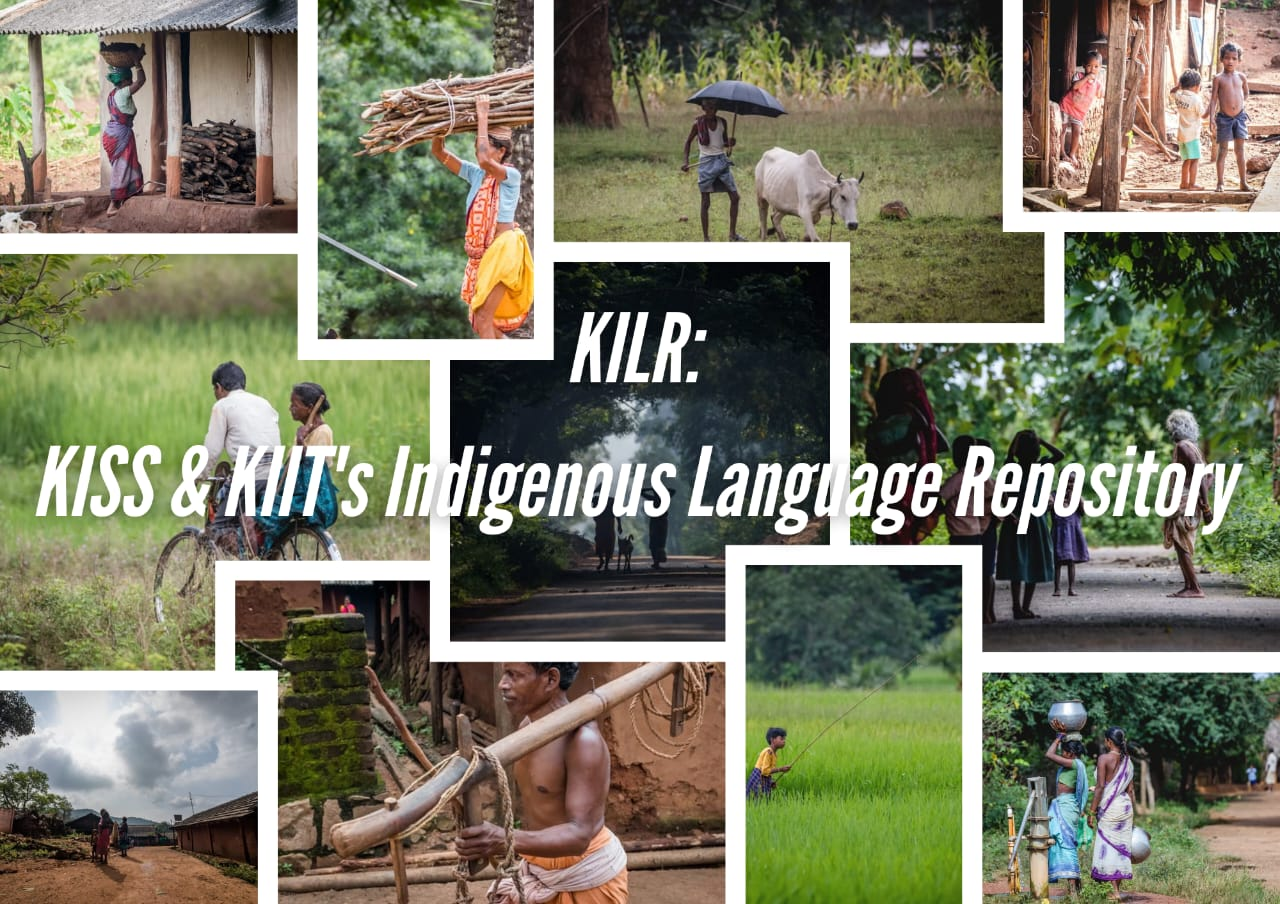
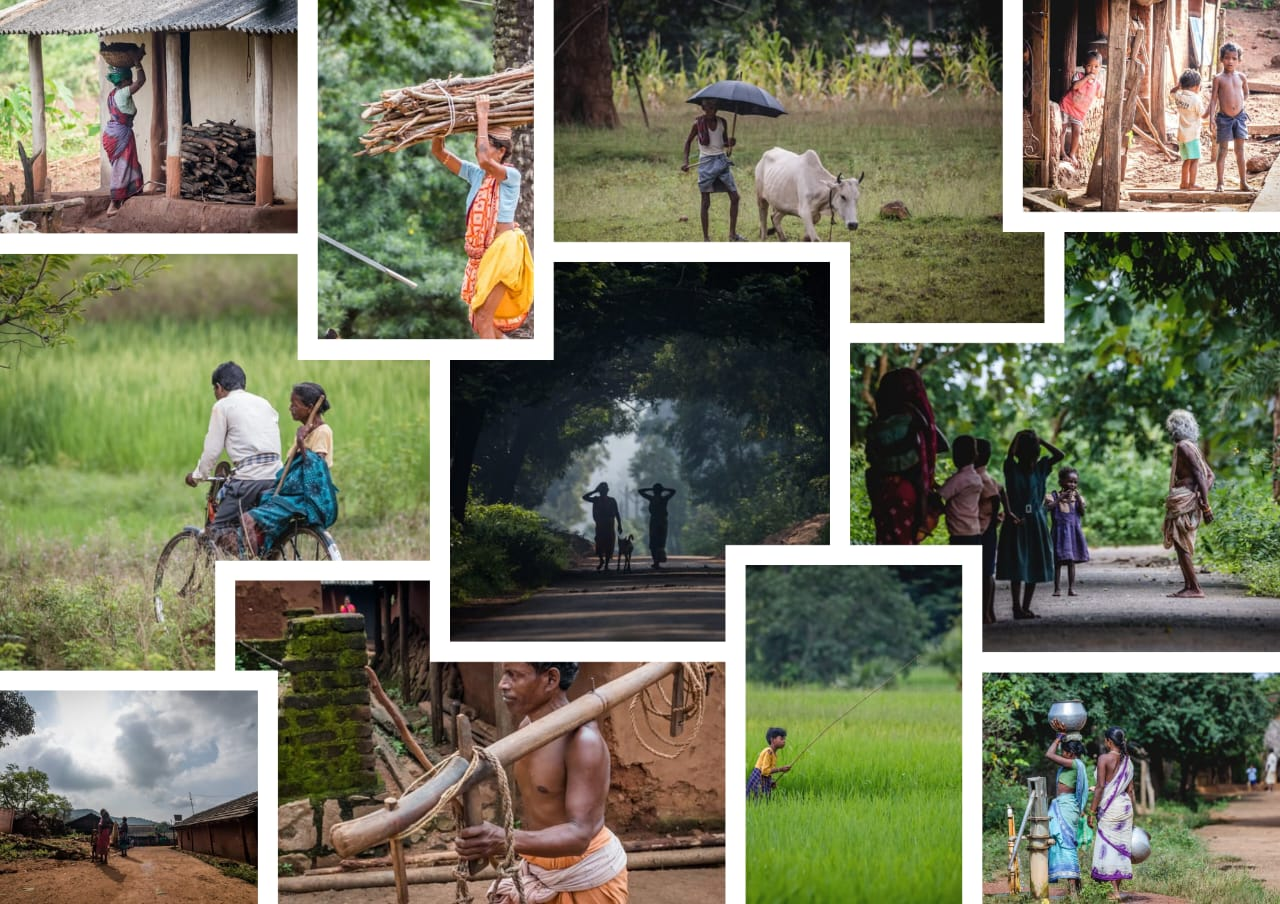
updated hero

Changed region(s): [[0.0312, 0.4956, 0.9688, 0.5885], [0.4375, 0.3407, 0.5625, 0.4336]]

diff --git a/src/components/hero.tsx b/src/components/hero.tsx
@@ -4,19 +4,15 @@ import { Button } from "./ui/button";
 
 const Hero = () => {
   return (
-    <div className="bg-[#F5F7F8] font-sans px-4 flex-1 flex flex-col sm:flex-row items-center">
-      <div className="max-w-screen-2xl mx-auto flex flex-col sm:flex-row items-center gap-4 justify-between pb-4 md:pb-0">
-        <div className="flex flex-col gap-10 md:gap-16 justify-center">
-          <div>
-            <h1 className="font-bold text-2xl mt-8 md:mt-0 md:text-4xl lg:text-4xl text-[#373A3C] tracking-tight ">
-            Celebrating Heritage, Preserving Voices: KISS & KIIT&apos;s
-              Indigenous Language Repository,
-              <br /> a Digital Tapestry of Rich Heritage.
-            </h1>
-            <h2 className="text-sm md:text-base mt-4 text-gray-700 font-medium">
-
-            </h2>
-          </div>
+    <div className="bg-[#F5F7F8] py-12 md:py-36 font-sans px-4 flex-1 flex flex-col sm:flex-row items-center">
+      <div className="max-w-screen-2xl mx-auto flex flex-col sm:flex-row items-center gap-12 justify-between pb-4 md:pb-0">
+        <div className="gap-10 xl:flex-1 md:gap-16 justify-center ">
+          <h1 className="font-semibold flex flex-col text-2xl my-8 md:mt-0 md:text-4xl md:leading-[48px]  text-[#373A3C] tracking-[-0.03em] gap-2">
+            <span className="italic text-xl md:text-2xl">Celebrating Heritage, Preserving Voices:</span>
+            <p>
+              KISS & KIIT&apos;s Indigenous Language Repository, a  Digital Tapestry of Rich Heritage.
+            </p>
+          </h1>
           <div className="flex gap-16 flex-col md:flex-row">
             <Link href="#register">
               <Button
@@ -29,14 +25,14 @@ const Hero = () => {
 
           </div>
         </div>
-        <div className="h-full">
+        <div className="">
           <Image
             src="/hero.jpg"
             alt="hero-image-love-to-learn"
             width={900}
             height={600}
             priority
-            className="max-h-72 object-cover h-[600px] sm:h[600px] sm:max-h-none xl:h-[400px]"
+            className="border-8 border-white rounded-lg shadow-2xl"
           ></Image>
         </div>
       </div>

diff --git a/src/app/layout.tsx b/src/app/layout.tsx
@@ -1,9 +1,10 @@
 import type { Metadata } from "next";
-import { Inter } from "next/font/google";
+import { Inter, Source_Sans_3 } from "next/font/google";
 import "./globals.css";
 
 const inter = Inter({ subsets: ["latin"] });
 
+const source = Inter({ subsets: ["latin"] });
 export const metadata: Metadata = {
   title: "Create Next App",
   description: "Generated by create next app",
@@ -16,7 +17,7 @@ export default function RootLayout({
 }>) {
   return (
     <html lang="en">
-      <body className={inter.className}>{children}</body>
+      <body className={source.className}>{children}</body>
     </html>
   );
 }

diff --git a/src/app/page.tsx b/src/app/page.tsx
@@ -9,9 +9,10 @@ export default function Home() {
   return (
     <main>
       <div className="mx-auto ">
-        <div className="min-h-screen flex flex-col ">
+        <div className="flex flex-col ">
           <Navbar />
           <hr />
+
           <Hero />
         </div>
         <About />
